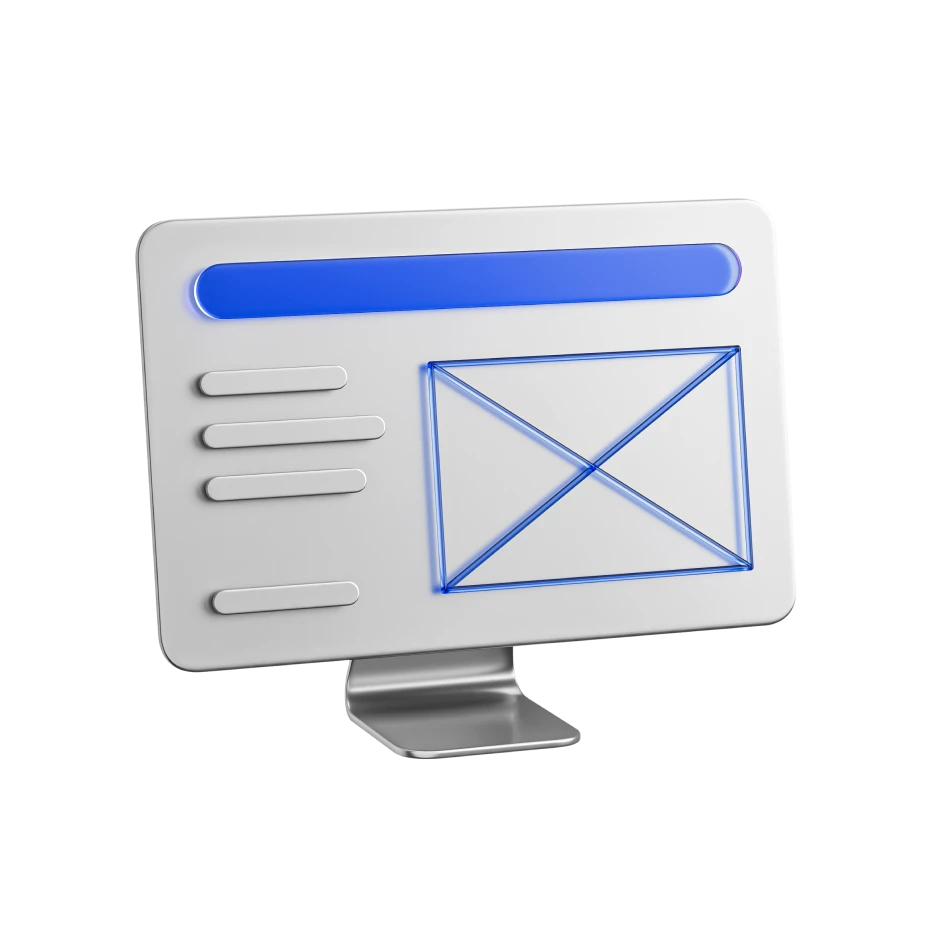
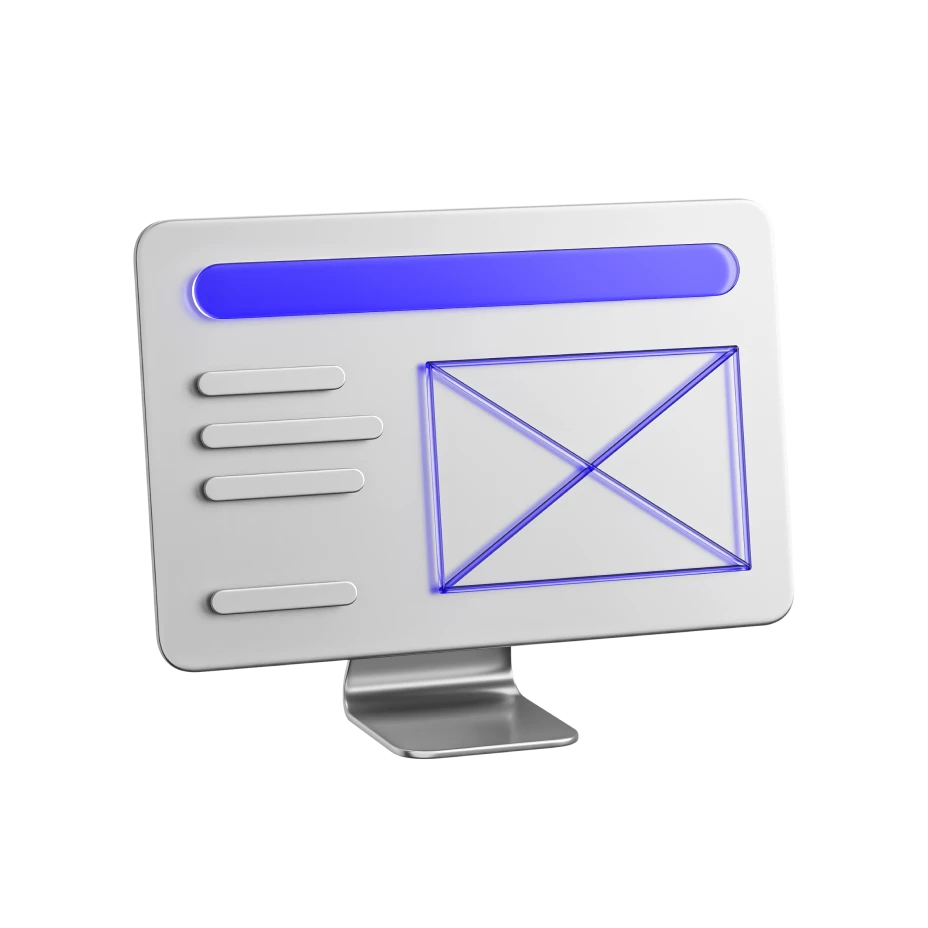
Fix: 이미지/버튼 색상 변경 및 구글폼 추가(#3)

diff --git a/src/pages/RecruitPage.tsx b/src/pages/RecruitPage.tsx
@@ -4,7 +4,7 @@ import { ScheduleContent } from '@/components/pages/recruit/ScheduleContent';
 
 export const RecruitPage = () => {
   const [selected, setSelected] = useState('schedule');
-  const applicationFormURL = 'https://naver.com';
+  const applicationFormURL = 'https://forms.gle/9MrR7X9Zowg59t1s9';
 
   return (
     <div className=" dt:w-[1230px] max-[376px]:w-full min-[439px]:w-[440px] flex flex-col dt:items-center justify-center dt:mt-[84px] ph:mt-5 dt:ml-0">
@@ -25,7 +25,7 @@ export const RecruitPage = () => {
         <div className="flex gap-[18px] mt-10 ph:gap-3 ph:mt-[57px] ph:ml-7 dt:ml-0">
           <button
             className={`flex items-center justify-center dt:subhead2 ph:subhead2 dt:px-7 dt:py-4 ph:px-[18px] ph:py-[10px] dt:rounded-[100px] ph:rounded-[66.667px] text-center cursor-pointer transition duration-200 ease-in-out
-            ${selected === 'schedule' ? 'text-black bg-blue2' : 'text-blue2 bg-black'}`}
+            ${selected === 'schedule' ? 'text-black bg-blue' : 'text-blue bg-black'}`}
             onClick={() => setSelected('schedule')}
           >
             일정 및 소개
@@ -35,7 +35,7 @@ export const RecruitPage = () => {
             href={applicationFormURL}
             target="_blank"
             rel="noopener noreferrer"
-            className="flex items-center justify-center dt:subhead2 ph:subhead2 dt:px-7 dt:py-4 ph:px-[18px] ph:py-[10px] dt:rounded-[100px] ph:rounded-[66.667px] bg-black text-blue2 text-center cursor-pointer border-blue2 ring-1 hover:bg-blue2 hover:text-black transition duration-200 ease-in-out"
+            className="flex items-center justify-center dt:subhead2 ph:subhead2 dt:px-7 dt:py-4 ph:px-[18px] ph:py-[10px] dt:rounded-[100px] ph:rounded-[66.667px] bg-black text-blue text-center cursor-pointer border-blue ring-1 hover:bg-blue30 hover:text-blue transition duration-200 ease-in-out"
           >
             지원 폼 작성하기
           </a>

diff --git a/src/data/ProfileData.ts b/src/data/ProfileData.ts
@@ -40,7 +40,7 @@ export const ProfileData = [
     part: '프론트엔드',
     name: '원채영',
     image: profile5,
-    department: '캠퍼스자율전공 22',
+    department: '컴퓨터공학과 22',
     phoneNumber: '010-4085-3878',
   },
   {

diff --git a/src/index.css b/src/index.css
@@ -14,7 +14,8 @@
   --color-gray8: #303030;
   --color-gray9: #171717;
   --color-black: #000000;
-  --color-blue2: #5f9aff;
+  --color-blue: #6a5fff;
+  --color-blue30: #6a5fff4d;
 
   /* breakpoint */
   --breakpoint-ph: 360px;
